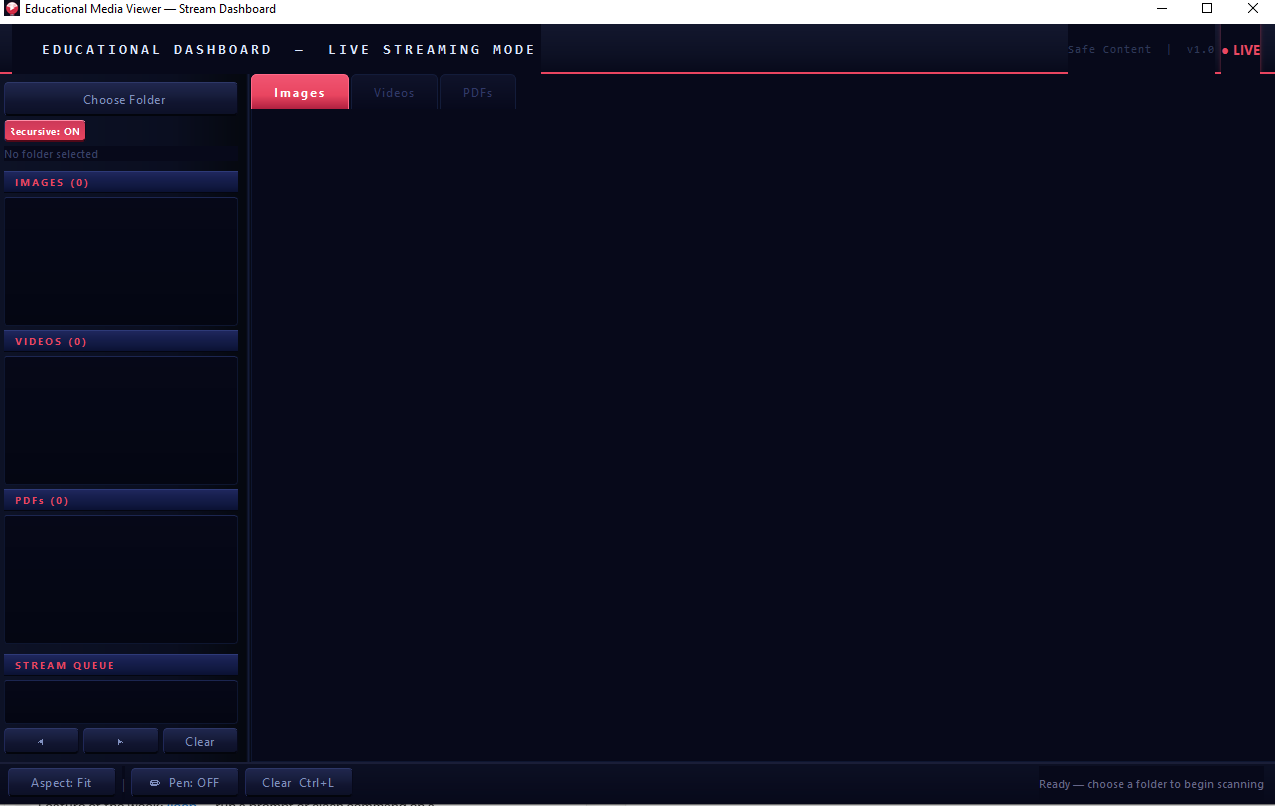
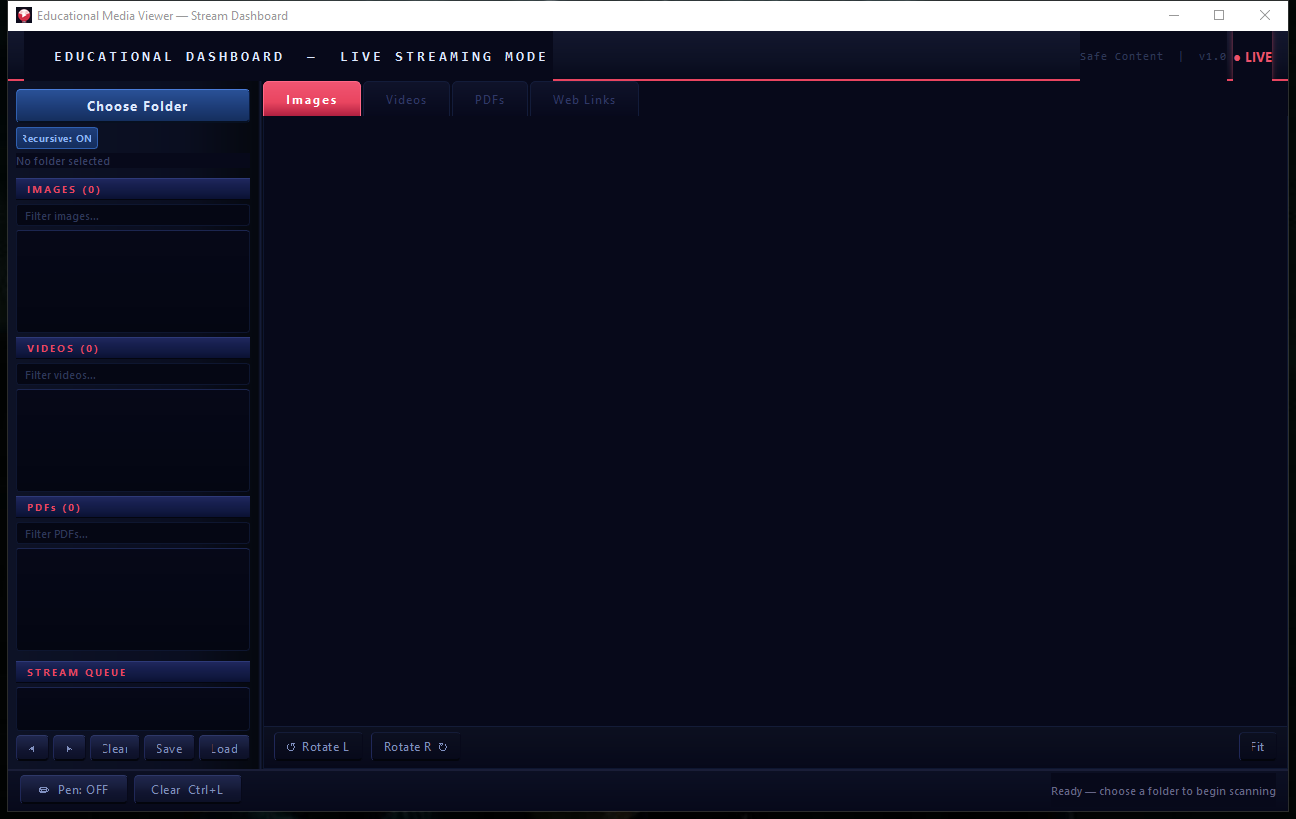
Improve design, update README, add screenshot

Changed region(s): [[0.0, 0.0, 1.0, 1.0], [0.4282, 0.0931, 0.8259, 0.1241]]

diff --git a/main.py b/main.py
@@ -172,6 +172,7 @@ class MainWindow(QMainWindow):
         layout.setSpacing(4)
 
         btn_folder = QPushButton("  Choose Folder")
+        btn_folder.setObjectName("btnChooseFolder")
         btn_folder.setFixedHeight(34)
         btn_folder.clicked.connect(self._on_choose_folder)
         layout.addWidget(btn_folder)
@@ -180,10 +181,11 @@ class MainWindow(QMainWindow):
         rec_row = QHBoxLayout()
         rec_row.setSpacing(4)
         self._btn_recursive = QPushButton("Recursive: ON")
+        self._btn_recursive.setObjectName("btnRecursive")
         self._btn_recursive.setCheckable(True)
         self._btn_recursive.setChecked(True)
         self._btn_recursive.setFixedHeight(22)
-        self._btn_recursive.setStyleSheet("font-size: 10px; padding: 2px 6px;")
+        self._btn_recursive.setStyleSheet("")
         self._btn_recursive.setToolTip(
             "ON = scan all subfolders\nOFF = only files directly in chosen folder"
         )

diff --git a/README.md b/README.md
@@ -1,62 +1,67 @@
-# Educational Media Viewer — Stream Dashboard
+# EduMediaViewer
 
-A professional PyQt6 desktop application for educators and live-streamers. Scan a folder, browse images, videos, and PDFs in a cinematic dark UI, annotate with a drawing overlay, and queue content for seamless TikTok/live-stream presentations.
+A desktop media viewer for educators and live-streamers. Scan a folder and browse all your images, videos, PDFs, and websites — all in one dark-themed window.
+
+![Screenshot](screenshot.png)
 
 ---
 
 ## Features
 
-- **Folder Scanner** — Recursive or top-level scan for images, videos, and PDFs
-- **Image Viewer** — Pan & zoom with smooth scroll-wheel control
-- **Video Player** — Full playback with seek bar, volume control, and mute toggle
-- **PDF Viewer** — High-DPI rendering, per-page navigation, zoom without blur
-- **Drawing Overlay** — Freehand annotation with color presets, custom color picker, and undo
-- **Stream Queue** — Right-click any file to add to queue; navigate with ◀ ▶ buttons
-- **Live Mode UI** — Pulsing LIVE indicator, broadcast control-room dark theme
-- **Keyboard shortcuts** — `Ctrl+O` open folder · `Ctrl+Z` undo · `Ctrl+L` clear canvas
+| Feature | Details |
+|---------|---------|
+| **Image Viewer** | Pan, zoom (scroll wheel), rotate left/right, fit to window |
+| **Video Player** | Play/pause, seek bar, speed control (0.25× – 2×), volume slider, mute |
+| **PDF Viewer** | Page navigation, zoom in/out, click the page number to jump to any page |
+| **Web Browser** | Browse websites inside the app — no external browser needed. Save bookmarks |
+| **Folder Scanner** | Recursive or single-level scan. Nested folder tree for quick filtering |
+| **Search** | Filter images, videos, or PDFs by filename instantly |
+| **Drawing Overlay** | Draw over any content with pen or eraser. Choose color and stroke size. Undo/redo |
+| **Stream Queue** | Queue files for a presentation. Drag to reorder. Auto-plays the next video |
 
 ---
 
-## Screenshots
+## Download
 
-![Dashboard](screenshot.png)
+**[⬇ Download EduMediaViewer\_v1.0.0.zip](https://github.com/MrHassan2027/EDU/releases/tag/v1.0.0)**
+
+Windows — no Python installation needed.
+
+1. Download and extract the zip
+2. Open the `EduMediaViewer` folder
+3. Run `EduMediaViewer.exe`
 
 ---
 
-## Requirements
+## Keyboard Shortcuts
 
-```
-PyQt6
-PyMuPDF
-```
+| Key | Action |
+|-----|--------|
+| `Ctrl+O` | Open folder |
+| `Ctrl+Z` | Undo drawing |
+| `Ctrl+Y` | Redo drawing |
+| `Ctrl+L` | Clear canvas |
+| `Space` | Play / Pause video |
+| `← →` | Seek video ±5 s &nbsp;/&nbsp; PDF previous/next page |
+| `↑ ↓` | Volume up / down |
+| `Ctrl+← →` | Previous / next image in list |
+| `Ctrl++` / `Ctrl+-` | Zoom PDF in / out |
 
-Install with:
+---
+
+## Run from Source
 
 ```bash
 pip install -r requirements.txt
-```
-
----
-
-## Run
-
-```bash
 python main.py
 ```
 
-Or **[download the prebuilt EduMediaViewer.exe](https://github.com/etetoo2026/EDU/releases/tag/v1.0)** (Windows, no Python needed).
+Requires **Python 3.10+** on Windows.
 
 ---
 
 ## License
 
-Copyright © 2026 **Mr. Hassan**. All rights reserved.
+Copyright © 2026 **Mr. Hassan** — [mrhassan-dev.vercel.app](https://mrhassan-dev.vercel.app/)
 
-This project is the intellectual property of Mr. Hassan. Unauthorized reproduction, distribution, or modification is prohibited without explicit written permission.
-
----
-
-## Author
-
-**Mr. Hassan**  
-Portfolio: [mrhassan-dev.vercel.app](https://mrhassan-dev.vercel.app/)
+All rights reserved. Unauthorized use or distribution is prohibited.